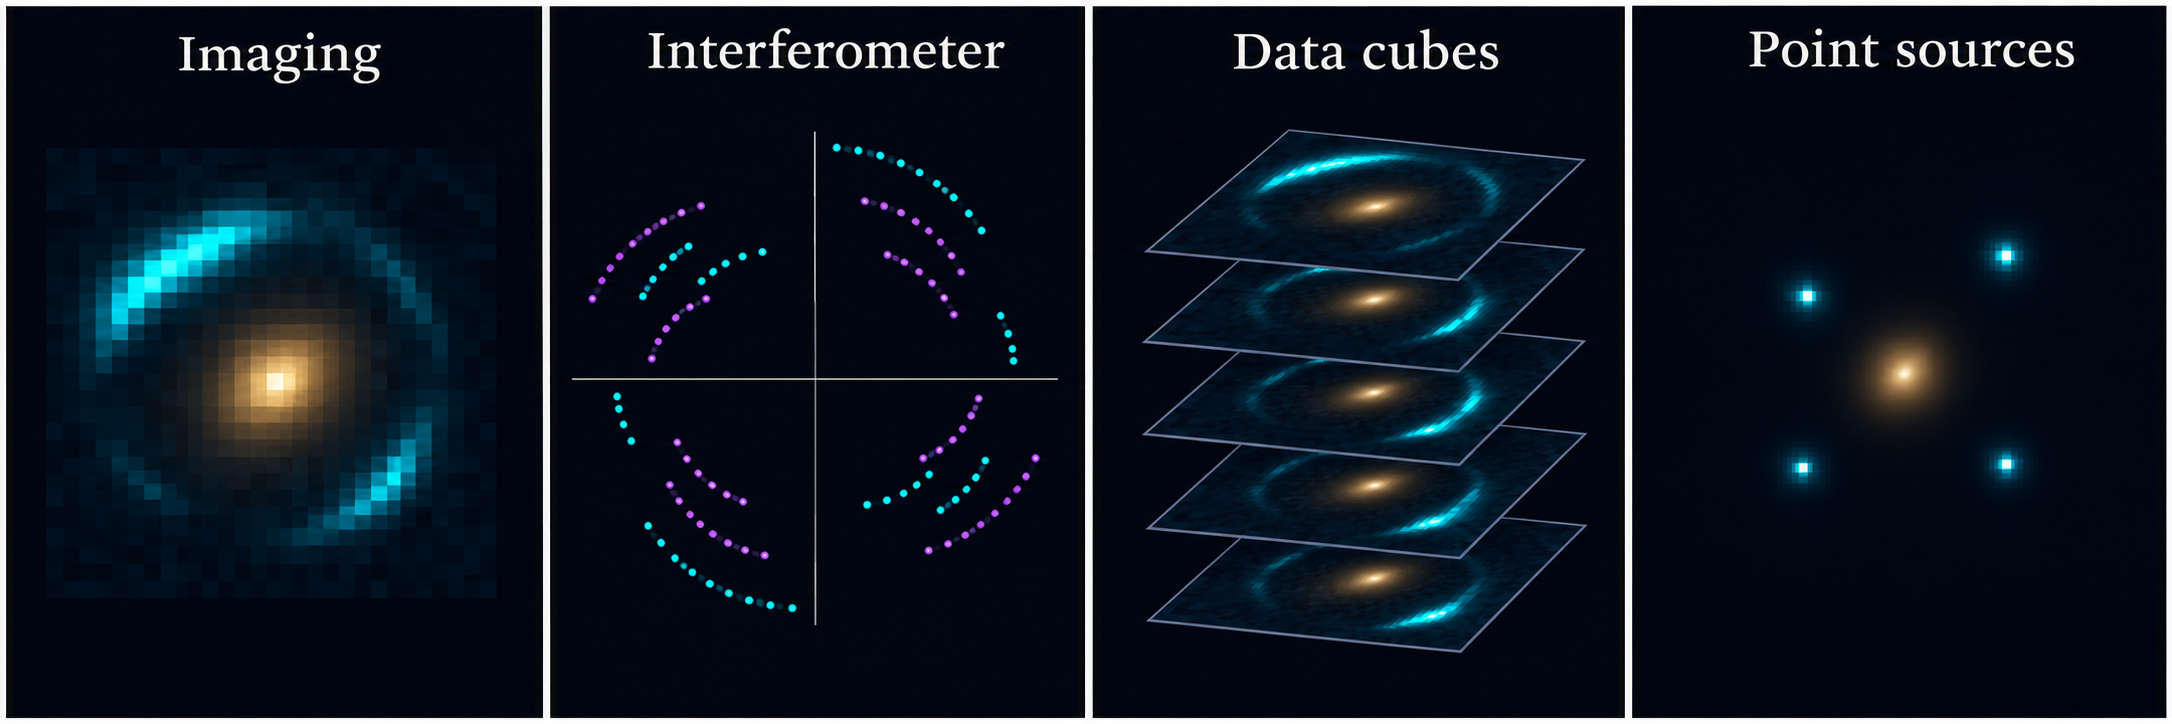
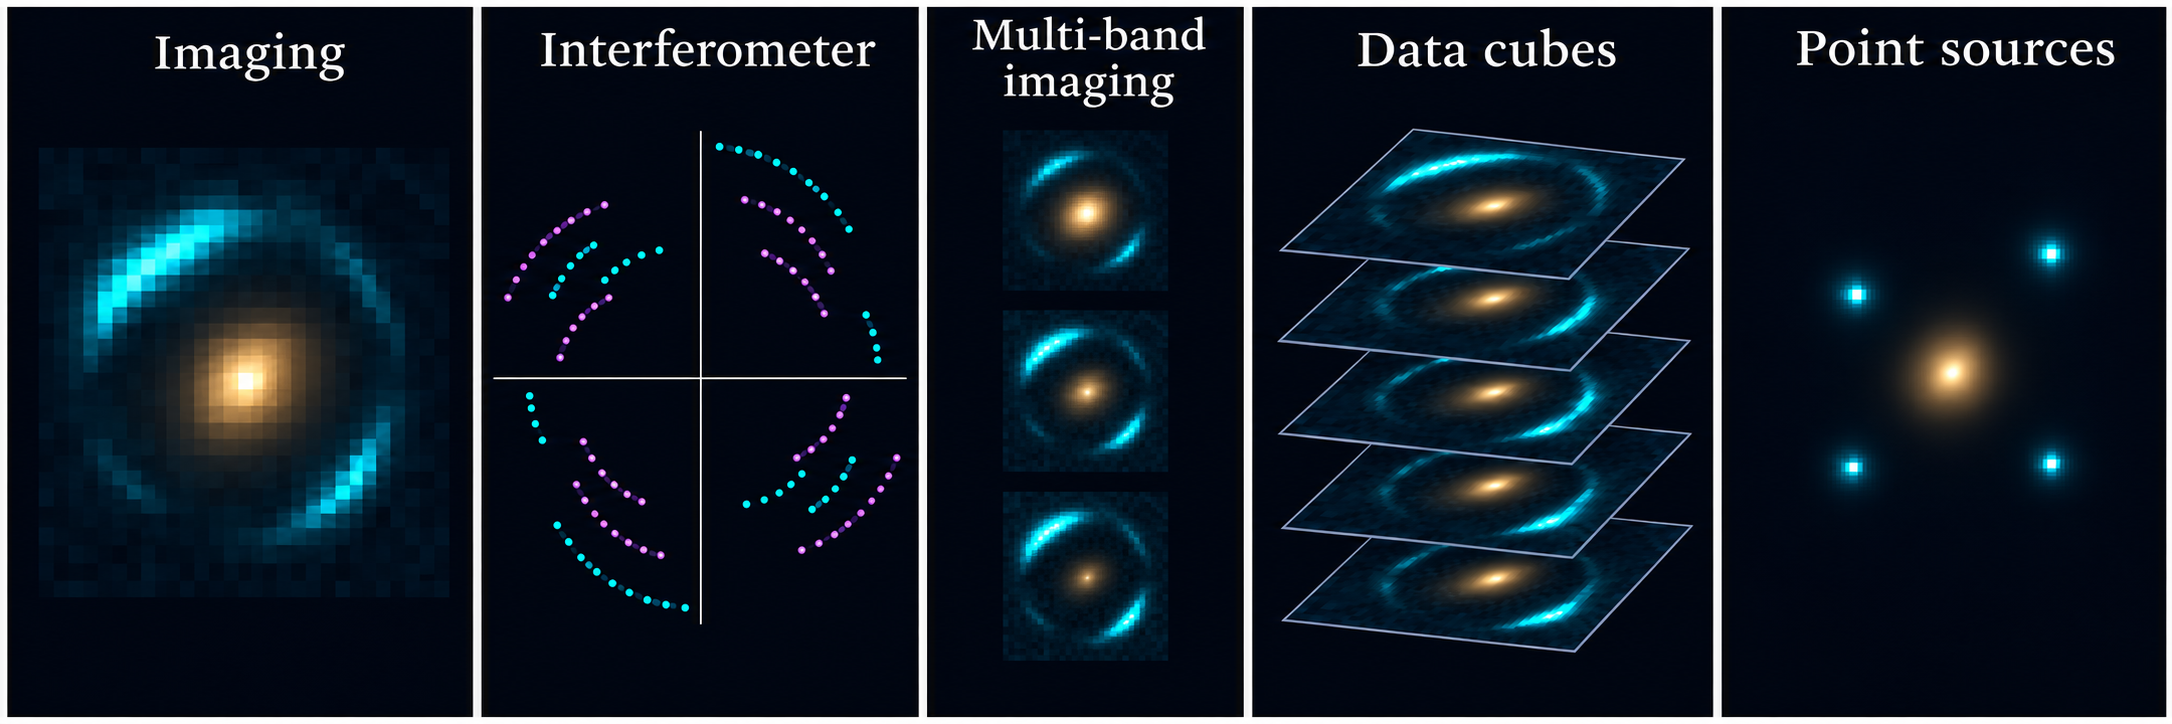
docs: add multi-band and weak lensing to new user guide

diff --git a/docs/overview/overview_2_new_user_guide.md b/docs/overview/overview_2_new_user_guide.md
@@ -64,9 +64,9 @@ Many member galaxies lens multiple background sources at different redshifts. Th
 
 For galaxy-scale lenses, choose the example for your observations. For multi-galaxy, group or cluster systems, begin with the scale-specific guide above.
 
-![Four conceptual dataset representations: a pixelated lensed image, samples in the interferometer u–v plane, stacked spectral-channel images, and four compact quasar images around a lens galaxy.](images/overview_2/dataset_types.png)
+![Five conceptual dataset representations: a pixelated lensed image, samples in the interferometer u–v plane, the same lens in three wavebands, stacked spectral-channel images, and four compact quasar images around a lens galaxy.](images/overview_2/dataset_types.png)
 
-*AI-generated schematic, not measured data. The interferometer panel shows where visibilities are sampled, not their amplitudes or phases; cube slices represent different spectral channels.*
+*AI-generated schematic, not measured data. The interferometer panel shows sampling locations; multi-band images show separate wavebands, while cube slices represent spectral channels.*
 
 ::::{grid} 1 2 2 2
 :gutter: 3
@@ -82,6 +82,12 @@ Images from telescopes such as Hubble or JWST. Fit the lens light, mass and exte
 Radio or submillimetre observations, such as ALMA data. Fit the measured visibilities directly.
 
 [Notebook ](https://github.com/PyAutoLabs/autolens_workspace/blob/main/notebooks/interferometer/start_here.ipynb)·[Google Colab ](https://colab.research.google.com/github/PyAutoLabs/autolens_workspace/blob/2026.11.12.1/notebooks/interferometer/start_here.ipynb)
+:::
+
+:::{grid-item-card} Multi-band imaging
+The same lens observed in several wavebands. Fit the images together with a shared lens model using `multi_dataset/`.
+
+[Notebook ](https://github.com/PyAutoLabs/autolens_workspace/blob/main/notebooks/multi_dataset/start_here.ipynb)·[Google Colab ](https://colab.research.google.com/github/PyAutoLabs/autolens_workspace/blob/2026.11.12.1/notebooks/multi_dataset/start_here.ipynb)
 :::
 
 :::{grid-item-card} Data cubes
@@ -101,6 +107,18 @@ Multiple images of a compact source, such as a quasar or supernova. Start with t
 (google-colab)=
 
 Read each notebook on GitHub, open it locally, or use its Google Colab link to run it in your browser. In Colab, run the setup cell first to install the software and prepare the example.
+
+(weak-lensing)=
+
+## Weak lensing
+
+To model the subtle distortions of many background galaxies, start with [weak/](https://github.com/PyAutoLabs/autolens_workspace/tree/main/scripts/weak). You can also combine weak and strong lensing to study a cluster across both scales.
+
+![Strong-lensing arcs near a cluster centre and weakly distorted background galaxies across a wider field.](images/overview_3/strong_weak_lensing.png)
+
+*AI-generated conceptual illustration. The panels cover different angular scales; dashed contours represent a mass model, not a direct measurement from individual galaxy shapes.*
+
+[Notebook ](https://github.com/PyAutoLabs/autolens_workspace/blob/main/notebooks/weak/start_here.ipynb)·[Google Colab ](https://colab.research.google.com/github/PyAutoLabs/autolens_workspace/blob/2026.11.12.1/notebooks/weak/start_here.ipynb)
 
 ## Still unsure?
 
